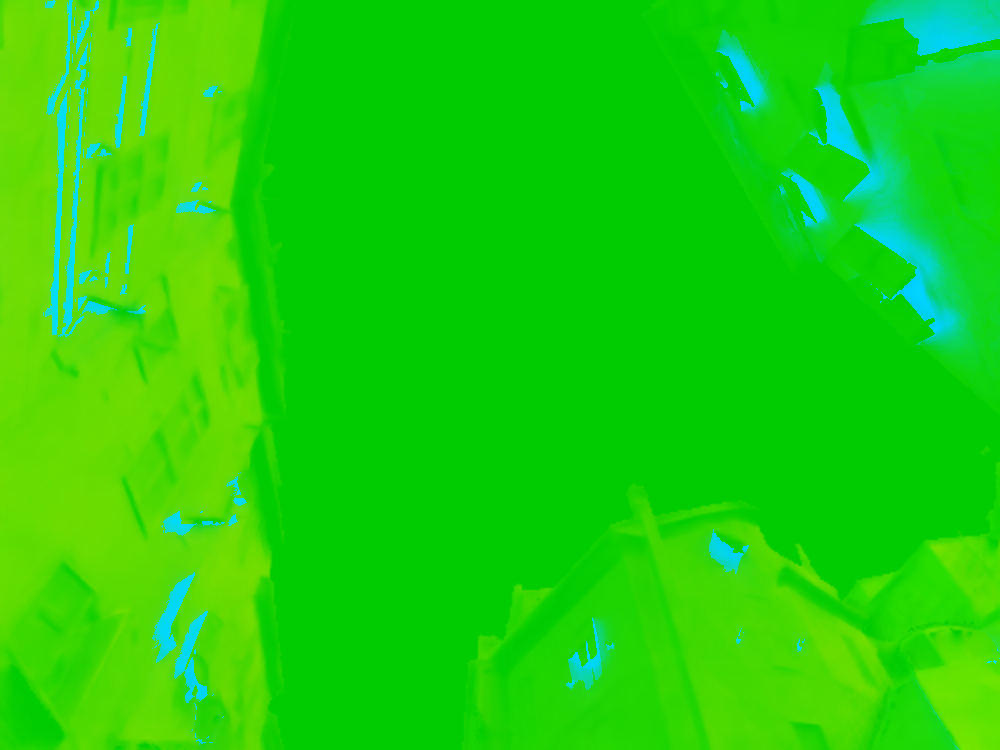
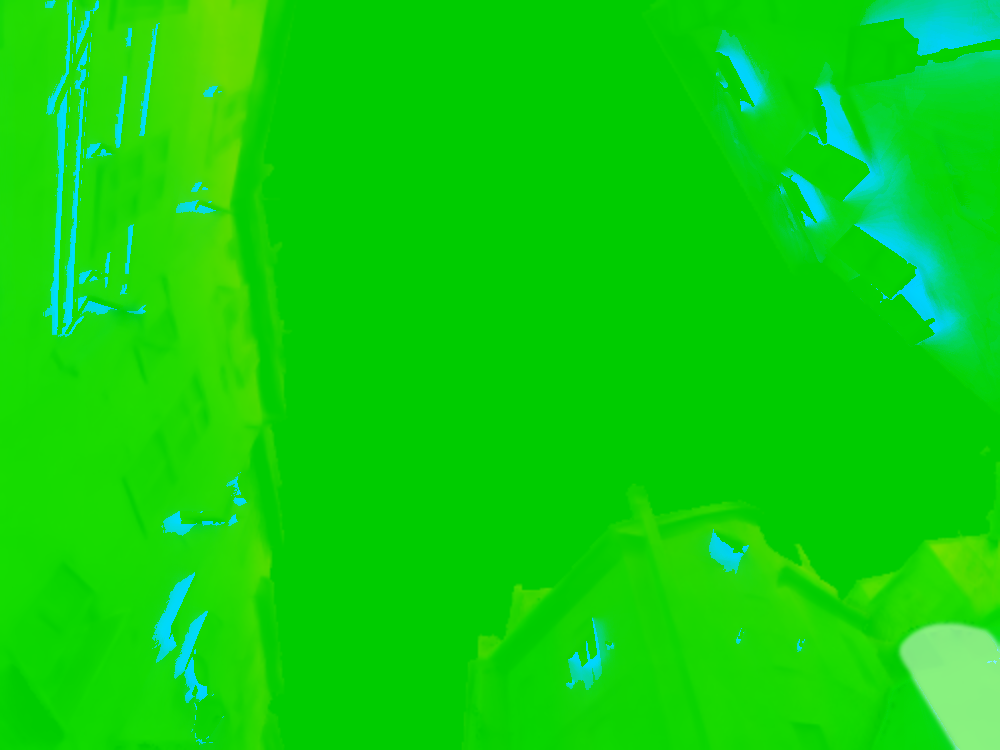
Lab: climb fade round 1
Claude-Session: https://claude.ai/code/session_01RqENhngNCzDFmJWDZueXGV

diff --git a/src/app/lab/fade/fadeEngine.js b/src/app/lab/fade/fadeEngine.js
@@ -24,16 +24,30 @@ import { createFilm, FILM_PRESETS } from "../_kit/film";
 //    its own dose-weighted (summer-heavy) mean sun and over its sky, so
 //    every one leaves a crisp, offset tan line of unfaded paint: the
 //    "something hung here for thirty years" mark, readable in one still.
+//    The march only sees what is in the frame, and the frame holds almost
+//    none of the low storeys across the lane, so it was generous to the low
+//    storeys of every wall. The far wall is put back analytically (canyon.py):
+//    each pixel's height above the lane from MoGe-2, a lane a few metres
+//    wide whose far wall stands as high as the skyline above it, and the
+//    share of the beam and the sky that wall takes, 1 - sin of its
+//    elevation: the slot of sky.
 //  - light.webp G: the photo's own illumination: the lane is in high sun, so
 //    one sun level (the white trim reflecting 0.85) plus a sky share by view
 //    factor, and albedo = photo / S.
 //  - light.webp B: the share of the dose those thin occluders take (the tan
 //    lines), which also keeps the wash's wear off the paint behind them.
+//  - light.webp A: 1 - sign / 2, the gelato sign's SAM mask: enamelled metal
+//    standing in the lane, which no ledge sheds water down, so it fades
+//    evenly, with no runoff tails, drips or patches.
 //  - mat.webp: how each pixel ages: the render fades per pigment and its
 //    lime binder chalks, the one bare stone wall barely moves, the sky and
 //    its cloud are inert.
 //
-// Live, per pixel, with e = years x dose x susceptibility:
+// Live, per pixel, with e = years x dose x susceptibility, where the dose is
+// the baked one on a power curve (2.4): paint holds below a threshold and
+// fails fast above it, so the top floors in the whole sky run far ahead of
+// the low storeys in their slot of it, and the coral wall facing north
+// hardly starts:
 //  - ink: albedo -> optical density per channel; the neutral part is carbon
 //    black, the rest is cyan (absorbs red), magenta (green) and yellow (blue),
 //    each fading exponentially, yellow and magenta about 4x faster than cyan,
@@ -42,8 +56,10 @@ import { createFilm, FILM_PRESETS } from "../_kit/film";
 //  - wood: lignin breaks down and brown wood goes silver grey (unused here:
 //    every surface in this photo is painted or stone);
 //  - chalk: the binder erodes and the white pigment powders out, lifting the
-//    paint towards the lime's own warm cream (never paper white), at most a
-//    quarter of the way, so the top floors keep a trace of their hue;
+//    paint towards a pale lime cream (never paper white), most of the way on
+//    the top floors, which keep only a trace of their hue under the bloom,
+//    and hardly at all on what is dark in the photo (window voids, the gaps
+//    behind shutters), which is not render;
 //  - and the dose itself is taken down to the scale of a ledge, baked once at
 //    load in the wall's own frame (up is toward the verticals' vanishing
 //    point, across is the angle around it): every sill, cornice and eave (an
@@ -84,16 +100,28 @@ const OPEN_AT = 3.2;
 const K_INK = [0.03, 0.13, 0.16]; // cyan, magenta, yellow
 const K_BLACK = 0.004;
 const K_WOOD = 0.1;
-const K_CHALK = 0.07;
-// At most a quarter of the surface powders to bare lime: even the most exposed
-// top floor keeps a trace of its own hue under the bloom.
-const CHALK_MAX = 0.25;
+const K_CHALK = 0.2;
+// Most of the most exposed surface powders to bare lime: the top floor goes to
+// pale plaster, a trace of its own hue still under the bloom.
+const CHALK_MAX = 0.85;
 const INDUCTION = 2.5;
 // Chalking needs the film itself to erode: only well-exposed paint gets there.
-const CHALK_INDUCTION = 7;
+const CHALK_INDUCTION = 5;
+// Fading is not linear in dose: below a threshold the UV absorbers and the
+// binder hold, above it the film erodes and each year takes more. The dose
+// that feeds the clock is the baked one on a power curve about DOSE_PIVOT, so
+// the sky-open top floors run far ahead of the low storeys in their slot of
+// sky (the bake's dose differs by three to five between them; the paint's
+// clock, by fifteen to fifty), and the coral wall facing north, at a tenth of
+// an open south wall, hardly starts.
+const DOSE_GAMMA = 2.4;
+const DOSE_PIVOT = 0.17;
 // The render under the pigment, and what the binder powders to: lime and
 // sand, a warm cream (sRGB hue, saturation, value), never paper white.
 const RENDER = [35, 0.12, 0.86];
+// What the chalk blooms to: the powdered lime and white pigment scatter, so
+// the bloom is lighter than the render under it, a pale lime cream.
+const BLOOM = [44, 0.15, 0.94];
 // Where the light falls at the scale of a ledge. Every sill, cornice and eave
 // shelters a strip of wall below it from sun and driving rain, out to about
 // its own depth; world up is toward the verticals' vanishing point, which the
@@ -332,7 +360,10 @@ uniform float uKChalk;
 uniform float uChalkMax;
 uniform float uInduction;
 uniform float uChalkInduction;
+uniform float uDoseGamma;
+uniform float uDosePivot;
 uniform vec3 uBase;
+uniform vec3 uBloom;
 uniform float uDebug;
 uniform float uPolar;
 uniform vec3 uZenith;
@@ -400,16 +431,26 @@ void main() {
   vec2 uv = vec2(vUv.x, 1.0 - vUv.y);
   vec3 lin = toLin(texture(uPlate, uv).rgb);
   vec4 m = texture(uMat, uv);
-  vec3 L = texture(uLight, uv).rgb;
-  // the dose map's tan lines are baked crisp at half the plate; four taps
-  // 1.5 plate px off soften their edges by about 3 px, no more, so a ghost
-  // stays sharp beside the soft drips and tails
+  vec4 L = texture(uLight, uv);
+  // the dose map's tan lines are baked crisp at half the plate, one texel
+  // in or out of a shadow; the dose curve and the chalk make that edge a
+  // hard one, so eight taps (a diagonal ring 1.5 plate px off, a straight one
+  // 3 px off) round the texel steps of a slanting line away, and the ghost
+  // still stays sharp beside the soft drips and tails
   vec2 lt = 0.75 / vec2(textureSize(uLight, 0));
-  vec2 tl = 0.25 * (texture(uLight, uv + lt).rb + texture(uLight, uv - lt).rb
-    + texture(uLight, uv + vec2(lt.x, -lt.y)).rb + texture(uLight, uv + vec2(-lt.x, lt.y)).rb);
+  vec2 lw = 1.5 / vec2(textureSize(uLight, 0));
+  vec2 tl = 0.15 * (texture(uLight, uv + lt).rb + texture(uLight, uv - lt).rb
+    + texture(uLight, uv + vec2(lt.x, -lt.y)).rb + texture(uLight, uv + vec2(-lt.x, lt.y)).rb)
+    + 0.1 * (texture(uLight, uv + vec2(lw.x, 0.0)).rb + texture(uLight, uv - vec2(lw.x, 0.0)).rb
+    + texture(uLight, uv + vec2(0.0, lw.y)).rb + texture(uLight, uv - vec2(0.0, lw.y)).rb);
   float dose = tl.x * 2.0;
   // the share of the dose a thin occluder took: its tan line
   float tanLine = tl.y;
+  // the clock runs on the dose's power curve: the top floors far ahead
+  dose = uDosePivot * pow(max(dose, 0.0) / uDosePivot, uDoseGamma);
+  // the gelato sign (A = 1 - sign / 2) is enamelled sheet metal standing in
+  // the lane: no ledge sheds water down it, so it fades evenly
+  float sign = clamp(2.0 - 2.0 * L.a, 0.0, 1.0);
   float S = max(L.g * L.g * 1.5, 0.02);
   if (uDebug > 0.5 && uDebug < 1.5) {
     outColor = vec4(toSrgb(vec3(dose * 0.5) * vec3(1.0, 0.97, 0.9)), 1.0);
@@ -437,6 +478,8 @@ void main() {
     // behind a leaf or a lantern the wall is out of the driving rain too:
     // its tan line keeps its colour like the strip under a sill
     wear = mix(wear, -1.0, clamp(tanLine * 1.6, 0.0, 1.0));
+    local = mix(local, 1.0, sign);
+    wear = mix(wear, 0.0, sign);
   }
   if (uDebug > 1.5) {
     outColor = vec4(toSrgb(vec3(dose * m.a * local * 0.5) * vec3(1.0, 0.97, 0.9)), 1.0);
@@ -470,9 +513,12 @@ void main() {
   vec3 aged = a + m.r * (aInk - a) + m.g * (aWood - a);
   // chalk: the binder erodes and the white pigment powders the surface
   float ec = max(e0 - uChalkInduction, 0.0);
-  // to the lime's own warm cream, the bloom heavier where the water runs
-  float c = m.b * uChalkMax * (1.0 - exp(-uKChalk * ec)) * (1.0 + 0.8 * wear);
-  aged = mix(aged, max(aged, uBase * min(0.55 + 0.45 * dot(aged, LUMA) / 0.6, 1.0)), c);
+  // to the bloom's pale lime cream, heavier where the water runs. What is
+  // dark in the photo is mostly not render at all (a window's void, the
+  // gap behind a shutter, a shadow), so it barely blooms and keeps its depth
+  float ya = dot(a, LUMA);
+  float c = min(m.b * uChalkMax * (1.0 - exp(-uKChalk * ec)) * (1.0 + 0.8 * wear), 0.9) * smoothstep(0.02, 0.2, ya);
+  aged = mix(aged, max(aged, uBloom * min(0.4 + 0.6 * dot(aged, LUMA) / 0.5, 1.0)), c);
 
   vec3 outLin = max(lin + S * (aged - a), 0.0);
   // the sky is inert to the clock (A = 0), so its grade is the same every year
@@ -611,6 +657,7 @@ export async function createFade(host, { embedded = false } = {}) {
   const rim = hsvLin(SKY_RIM);
   const clearSky = hsvLin(SKY_CLEAR);
   const render = hsvLin(RENDER);
+  const bloom = hsvLin(BLOOM);
   const reduce = window.matchMedia?.("(prefers-reduced-motion: reduce)").matches ?? false;
 
   const stage = createStage(host, { webgl: true, dpr: 2, antialias: false });
@@ -816,7 +863,10 @@ export async function createFade(host, { embedded = false } = {}) {
     gl.uniform1f(u.uChalkMax, CHALK_MAX);
     gl.uniform1f(u.uInduction, INDUCTION);
     gl.uniform1f(u.uChalkInduction, CHALK_INDUCTION);
+    gl.uniform1f(u.uDoseGamma, DOSE_GAMMA);
+    gl.uniform1f(u.uDosePivot, DOSE_PIVOT);
     gl.uniform3fv(u.uBase, render);
+    gl.uniform3fv(u.uBloom, bloom);
     gl.uniform2f(u.uPlateSize, PW, PH);
     gl.uniform2f(u.uVanish, VANISH[0], VANISH[1]);
     gl.uniform1f(u.uShelter, SHELTER);

diff --git a/tools/depth/bakes/fade/canyon.py b/tools/depth/bakes/fade/canyon.py
@@ -1,0 +1,104 @@
+# Fade, step 2b: the slot of sky the frame cannot see.
+#
+#   python3 -I canyon.py <workdir>   (reads moge/, dose.npz, m/occ-sign.png,
+#                                     writes canyon.npz; mat.py folds it in)
+#
+# dose.py marches every sun and sky ray through the depth map in screen space,
+# and a ray that leaves the frame counts as open sky. The camera lies at the
+# foot of the houses and looks almost straight up, so the frame holds the top
+# floors and the sky between them, and almost none of the low storeys of the
+# houses opposite: a ray from a second-floor window across the lane leaves the
+# frame long before it meets the wall that, in the lane, takes its sun. So the
+# march is generous to the low storeys, and the dose comes out almost even up
+# a wall, when the whole point of a lane is that it is not.
+#
+# This puts the missing wall back, analytically. Every pixel's height above
+# the lane comes from MoGe-2's metric point map along dose.py's world up. The
+# lane is taken as a canyon of width LANE whose far wall stands as high as
+# the skyline above the pixel: the highest wall point on the image ray toward
+# the verticals' vanishing point when that ray reaches the sky inside the
+# frame (the low ochre block at the end of the lane, whose roof is in the
+# picture), else ROOF (the houses that run on past the frame's top). A wall
+# point at height h then sees the far wall up to an elevation
+# beta = atan((roof - h) / LANE) across the lane, which takes the beam of
+# every sun lower than that and the sky below it: the open fraction of a
+# vertical wall's sky is 1 - sin(beta). The march has already counted what
+# the frame does show (the top floors' own shade), so only part of this is
+# applied: canyon = FLOOR + (1 - FLOOR) * (1 - sin(beta)).
+#
+# Also the gelato sign's own mask (SAM 2.1, m/occ-sign.png), at the dose's
+# half resolution: the sign is enamelled sheet metal standing in the lane, not
+# render on a wall, so no rain runs down it from a ledge and the engine keeps
+# the runoff, drips and patches off it.
+import sys, json, numpy as np, cv2
+from PIL import Image
+
+wd = sys.argv[1]
+HW, HH = 1000, 750
+# the plate's vertical vanishing point (fadeEngine.js VANISH), plate px
+VANISH = (940.0, -1650.0)
+# m between the facing walls, in MoGe's metres. MoGe puts the pink and coral
+# walls about 15 m apart, but its scale across a frame this wide-angle and
+# this steep is the least certain thing it gives; a Cinque Terre lane stands
+# three or four times as high as it is wide, and that ratio is what counts
+# here (beta depends only on (roof - h) / LANE), so the width is set by it.
+LANE = 6.0
+ROOF = 21.0  # m, the eaves of the houses that run on past the frame's top
+# the least of the dose the slot leaves: the march has already counted the
+# part of the far wall the frame shows, so the analytic wall never takes all
+FLOOR = 0.12
+
+cam = json.load(open(wd + "/moge/camera.json"))
+depth = cv2.imread(wd + "/moge/depth.png", cv2.IMREAD_UNCHANGED).astype(np.float32) / 65535.0 * cam["depth_max"]
+valid = np.array(Image.open(wd + "/moge/mask.png").convert("L")).astype(np.float32) / 255
+H0, W0 = depth.shape
+d = cv2.resize(depth, (HW, HH), interpolation=cv2.INTER_AREA)
+v = cv2.resize(valid, (HW, HH), interpolation=cv2.INTER_AREA) > 0.5
+f = cam["fx"] * HW / W0
+cx, cy = (cam["cx"] + 0.5) * HW / W0 - 0.5, (cam["cy"] + 0.5) * HH / H0 - 0.5
+ys, xs = np.mgrid[0:HH, 0:HW].astype(np.float32)
+P = np.stack([(xs - cx) / f * d, -(ys - cy) / f * d, -d], -1)
+UP = np.load(wd + "/dose.npz")["up"].astype(np.float32)
+# height above the lane: the camera is held about 1.5 m off the cobbles
+h = P @ UP + 1.5
+# the frame's walls are smooth at the scale of a storey; MoGe's edges are not
+h = np.where(v, h, 0).astype(np.float32)
+hs = cv2.GaussianBlur(h, (0, 0), 3) / np.maximum(cv2.GaussianBlur(v.astype(np.float32), (0, 0), 3), 1e-3)
+h = np.where(v, hs, h)
+
+# the skyline above each pixel: march toward the vanishing point
+vx, vy = VANISH[0] / 2, VANISH[1] / 2
+ux, uy = vx - xs, vy - ys
+n = np.sqrt(ux * ux + uy * uy)
+ux, uy = ux / n, uy / n
+roof = np.full((HH, HW), -1.0, np.float32)
+top = h.copy()
+alive = v.copy()
+for i in range(1, 400):
+    qx, qy = xs + ux * i * 2, ys + uy * i * 2
+    out = (qx < 0) | (qx > HW - 1) | (qy < 0) | (qy > HH - 1)
+    # left the frame still on a wall: the house runs on above it
+    roof[alive & out] = ROOF
+    alive &= ~out
+    j = np.clip(np.round(qy).astype(int), 0, HH - 1), np.clip(np.round(qx).astype(int), 0, HW - 1)
+    on = v[j]
+    # reached the sky inside the frame: this house's own roofline
+    hit = alive & ~on
+    roof[hit] = top[hit]
+    alive &= on
+    top = np.where(alive, np.maximum(top, h[j]), top)
+    if not alive.any():
+        break
+roof[roof < 0] = ROOF
+roof = np.minimum(np.maximum(roof, h), ROOF)
+roof = cv2.GaussianBlur(roof, (0, 0), 6)
+beta = np.arctan(np.maximum(roof - h, 0) / LANE)
+canyon = np.where(v, FLOOR + (1 - FLOOR) * (1 - np.sin(beta)), 1).astype(np.float32)
+
+sign = np.asarray(Image.open(wd + "/m/occ-sign.png").convert("L").resize((HW, HH), Image.BILINEAR)).astype(np.float32) / 255
+sign = cv2.GaussianBlur(cv2.dilate(sign, np.ones((5, 5), np.uint8)), (0, 0), 2)
+
+print("height above the lane, walls: p5", np.percentile(h[v], 5).round(1), "median", np.median(h[v]).round(1), "p95", np.percentile(h[v], 95).round(1))
+print("canyon factor, walls: p5", np.percentile(canyon[v], 5).round(3), "median", np.median(canyon[v]).round(3), "p95", np.percentile(canyon[v], 95).round(3))
+np.savez_compressed(wd + "/canyon.npz", canyon=canyon, height=h, roof=roof, sign=np.clip(sign, 0, 1))
+print("wrote canyon.npz")

diff --git a/tools/depth/bakes/fade/mat.py b/tools/depth/bakes/fade/mat.py
@@ -6,7 +6,8 @@
 # Inputs: plate-fill.png (the 2000x1500 plate), m/stone.png and
 # m/stone-low.png (SAM 2.1 masks of the one wall whose render has gone,
 # leaving rough brown stone, in two pieces either side of a shutter), moge/
-# (validity: white = surface, black = sky), dose.npz (dose.py).
+# (validity: white = surface, black = sky), dose.npz (dose.py), canyon.npz
+# (canyon.py).
 #
 # The lane is painted almost everywhere: lime-and-pigment render in pink,
 # coral red, orange and ochre, white trim bands, green louvred shutters. The
@@ -24,10 +25,11 @@
 #                 G wood   lignin breakdown (none in this photo: 0)
 #                 B chalk  binder erodes, the white pigment powders out
 #                 A sens   overall susceptibility (0: sky and cloud)
-#   light.webp  lossless RGB at 1000x750:
+#   light.webp  lossless RGBA at 1000x750:
 #                 R annual dose / 2 (1.0 = an open south wall), from
 #                   dose.py's half-res dose_hi: the 1/4-res dose with the
-#                   tan lines of the thin occluders carved out of it
+#                   tan lines of the thin occluders carved out of it, times
+#                   canyon.py's slot of sky (the low storeys' far wall)
 #                 G the photo's own illumination S at that pixel, / 1.5, as
 #                   sqrt, so albedo = linear photo / S
 #                 B the tan lines: the share of the dose that the thin
@@ -35,6 +37,8 @@
 #                   shutter leaf or a lantern is out of the driving rain as
 #                   well as the sun, so the engine also takes the wash's wear
 #                   off it. (Without dose_hi, the old sky view factor.)
+#                 A 1 - sign / 2: the gelato sign (canyon.py), enamelled
+#                   metal, which fades evenly with no runoff or drips
 import sys, numpy as np, cv2
 from PIL import Image
 
@@ -96,12 +100,23 @@ print(f"E {E:.3f}; paint {float((paint > 0.5).mean()) * 100:.1f}% stone {float((
 S = np.maximum(S, 0.02)
 S = cv2.resize(S, (LW, LH), interpolation=cv2.INTER_AREA)
 dose_l = z["dose_hi"] if "dose_hi" in z else cv2.resize(dose, (LW, LH), interpolation=cv2.INTER_AREA)
+# the low storeys' slot of sky (canyon.py): the walls opposite that the frame
+# leaves out take their share of the beam and the sky; and the gelato sign's
+# own mask, which the engine keeps the runoff off
+try:
+    cz = np.load(wd + "/canyon.npz")
+    canyon, sign = cz["canyon"], cz["sign"]
+except FileNotFoundError:
+    canyon, sign = np.ones((LH, LW), np.float32), np.zeros((LH, LW), np.float32)
+dose_c = dose_l * canyon
 light = np.stack([
-    np.clip(dose_l / 2, 0, 1),
+    np.clip(dose_c / 2, 0, 1),
     np.sqrt(np.clip(S / 1.5, 0, 1)),
     np.clip(z["tan"] / np.maximum(dose_l + z["tan"], 1e-3), 0, 1) if "tan" in z else np.clip(cv2.resize(svf, (LW, LH), interpolation=cv2.INTER_AREA), 0, 1),
+    # alpha never below a half, so the browser's decode keeps RGB exact
+    1 - 0.5 * np.clip(sign, 0, 1),
 ], -1)
-Image.fromarray((light * 255 + 0.5).astype(np.uint8), "RGB").save(out + "/light.webp", lossless=True, quality=100, method=6)
+Image.fromarray((light * 255 + 0.5).astype(np.uint8), "RGBA").save(out + "/light.webp", lossless=True, quality=100, method=6, exact=True)
 Image.fromarray((img * 255 + 0.5).astype(np.uint8)).save(out + "/plate.webp", quality=90, method=6)
 np.save(wd + "/S.npy", S)
 print("wrote plate.webp, mat.webp, light.webp")
